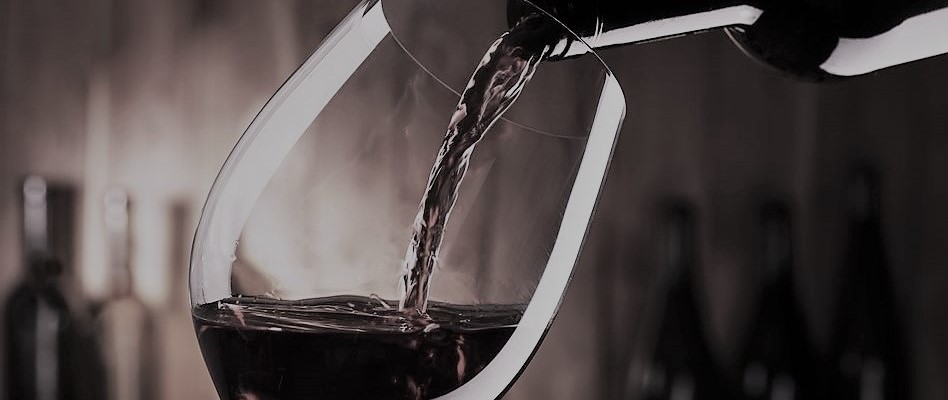
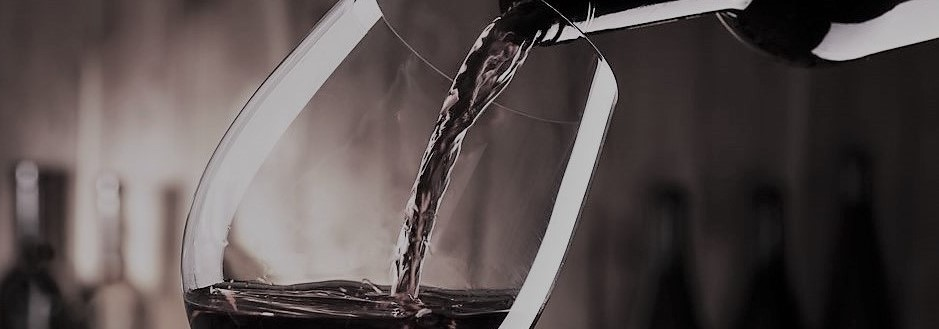
Modificando Home

diff --git a/proyecto-integrador/views/index.html b/proyecto-integrador/views/index.html
@@ -13,7 +13,7 @@
     <link rel="stylesheet" href='/css/header.css'>
     <link rel="stylesheet" href='/css/footer.css'>
     <link rel="stylesheet" href='/css/form.css'>
-    <link rel="stylesheet" href='/css/home.css'>
+    <link rel="stylesheet" href='/css/index.css'>
 </head>
  
 <body>
@@ -45,7 +45,7 @@
   
   <div class="carroussel">
     <a href="#"><img width="100px" src="images/HomeCarroussel.jpg" alt="carroussel" class="home-carroussel"></a>
-    <h2 class="text-carroussel">Conocé nuestra exclusiva seleccion de vinos Alta Gama  </h2>
+    <h2 class="text-carroussel">Conocé nuestra exclusiva selección de vinos Alta Gama  </h2>
   </div>
 
   <section class="productos-destacados">
@@ -116,7 +116,7 @@
     <div class="pic-collage1">
     <a href="#" class="ahref"><img width="100px" src="images/cata.jpg" alt="carroussel" class="pic"></a>
     <h2 class="text-pic1">Las mejores degustaciones de vinos</h2>  
-    <a href="#"><img width="100px" src="images/HomeCarroussel.jpg" alt="carroussel" class="pic"></a>
+    <a href="#"><img width="100px" src="images/HomeCarroussel1.jpg" alt="carroussel" class="pic"></a>
     <h2 class="text-pic2">Adherite a nuestro club de puntos y recibi los mejores beneficios</h2>  
     </div>  
     <div class="pic-collage2">
@@ -133,7 +133,7 @@
         <p>Ademas tenemos cuotas sin interés!</p>
       </div>  
       <div class="dato">
-        <i class="fas fa-gift"></i>
+        <i class="fas fa-shipping-fast"></i>
         <h4>Envío gratis desde los $5.000</h4>
         <p>Envio gratis a CABA y GBA sin minimo de compra.</p>
       </div>

diff --git a/proyecto-integrador/Public/css/index.css b/proyecto-integrador/Public/css/index.css
@@ -62,21 +62,22 @@
 }
 
 /*Collage fotos*/
+    /* Fotos*/
 .pic {
-    width: 100%;
+    width: 112%;
     position:relative;
-    left:40%;
+    left:29%;
     border-radius: 5px;
 }
 
 .pic2 {
-    width: 70%;
+    width: 78%;
     position:relative;
     left:20%;
     border-radius: 5px;
 }
 
-
+    /*Collage*/
 .pic-collage {
     position:relative;
     display: flex;
@@ -98,17 +99,16 @@
     flex-direction: column;
 }
 
-
-
+    /*Texto*/
 .text-pic1 {
     background-color:rgb(255, 255, 255);
     opacity: 0.75;
     position: absolute;
-    top: 10%;
+    top: 8%;
     text-align: left;
-    width: 25%;
-    font-size: 14px;
-    left: 40%;
+    width: 35%;
+    font-size: 18px;
+    left: 30%;
     z-index: 100;
 }
 .text-pic2 {
@@ -116,10 +116,10 @@
     opacity: 0.75;
     position: absolute;
     top: 80%;
-    text-align: left;
-    width: 40%;
-    font-size: 14px;
-    left:100%;
+    text-align: right;
+    width: 46%;
+    font-size: 18px;
+    left:95%;
     z-index: 100;
 }
 .text-pic3 {
@@ -128,9 +128,9 @@
     position: absolute;
     top: 85%;
     text-align: right;
-    width: 50%;
-    font-size: 16px;
-    left:40%;
+    width: 60%;
+    font-size: 20px;
+    left:38%;
     z-index: 100;
 }
 
@@ -150,7 +150,7 @@
     margin: 15px;
 }
 .fa-credit-card,
-.fa-gift,
+.fa-shipping-fast,
 .fa-wine-glass-alt {
     margin: 15px;
     color:rgb(77, 34, 34);
